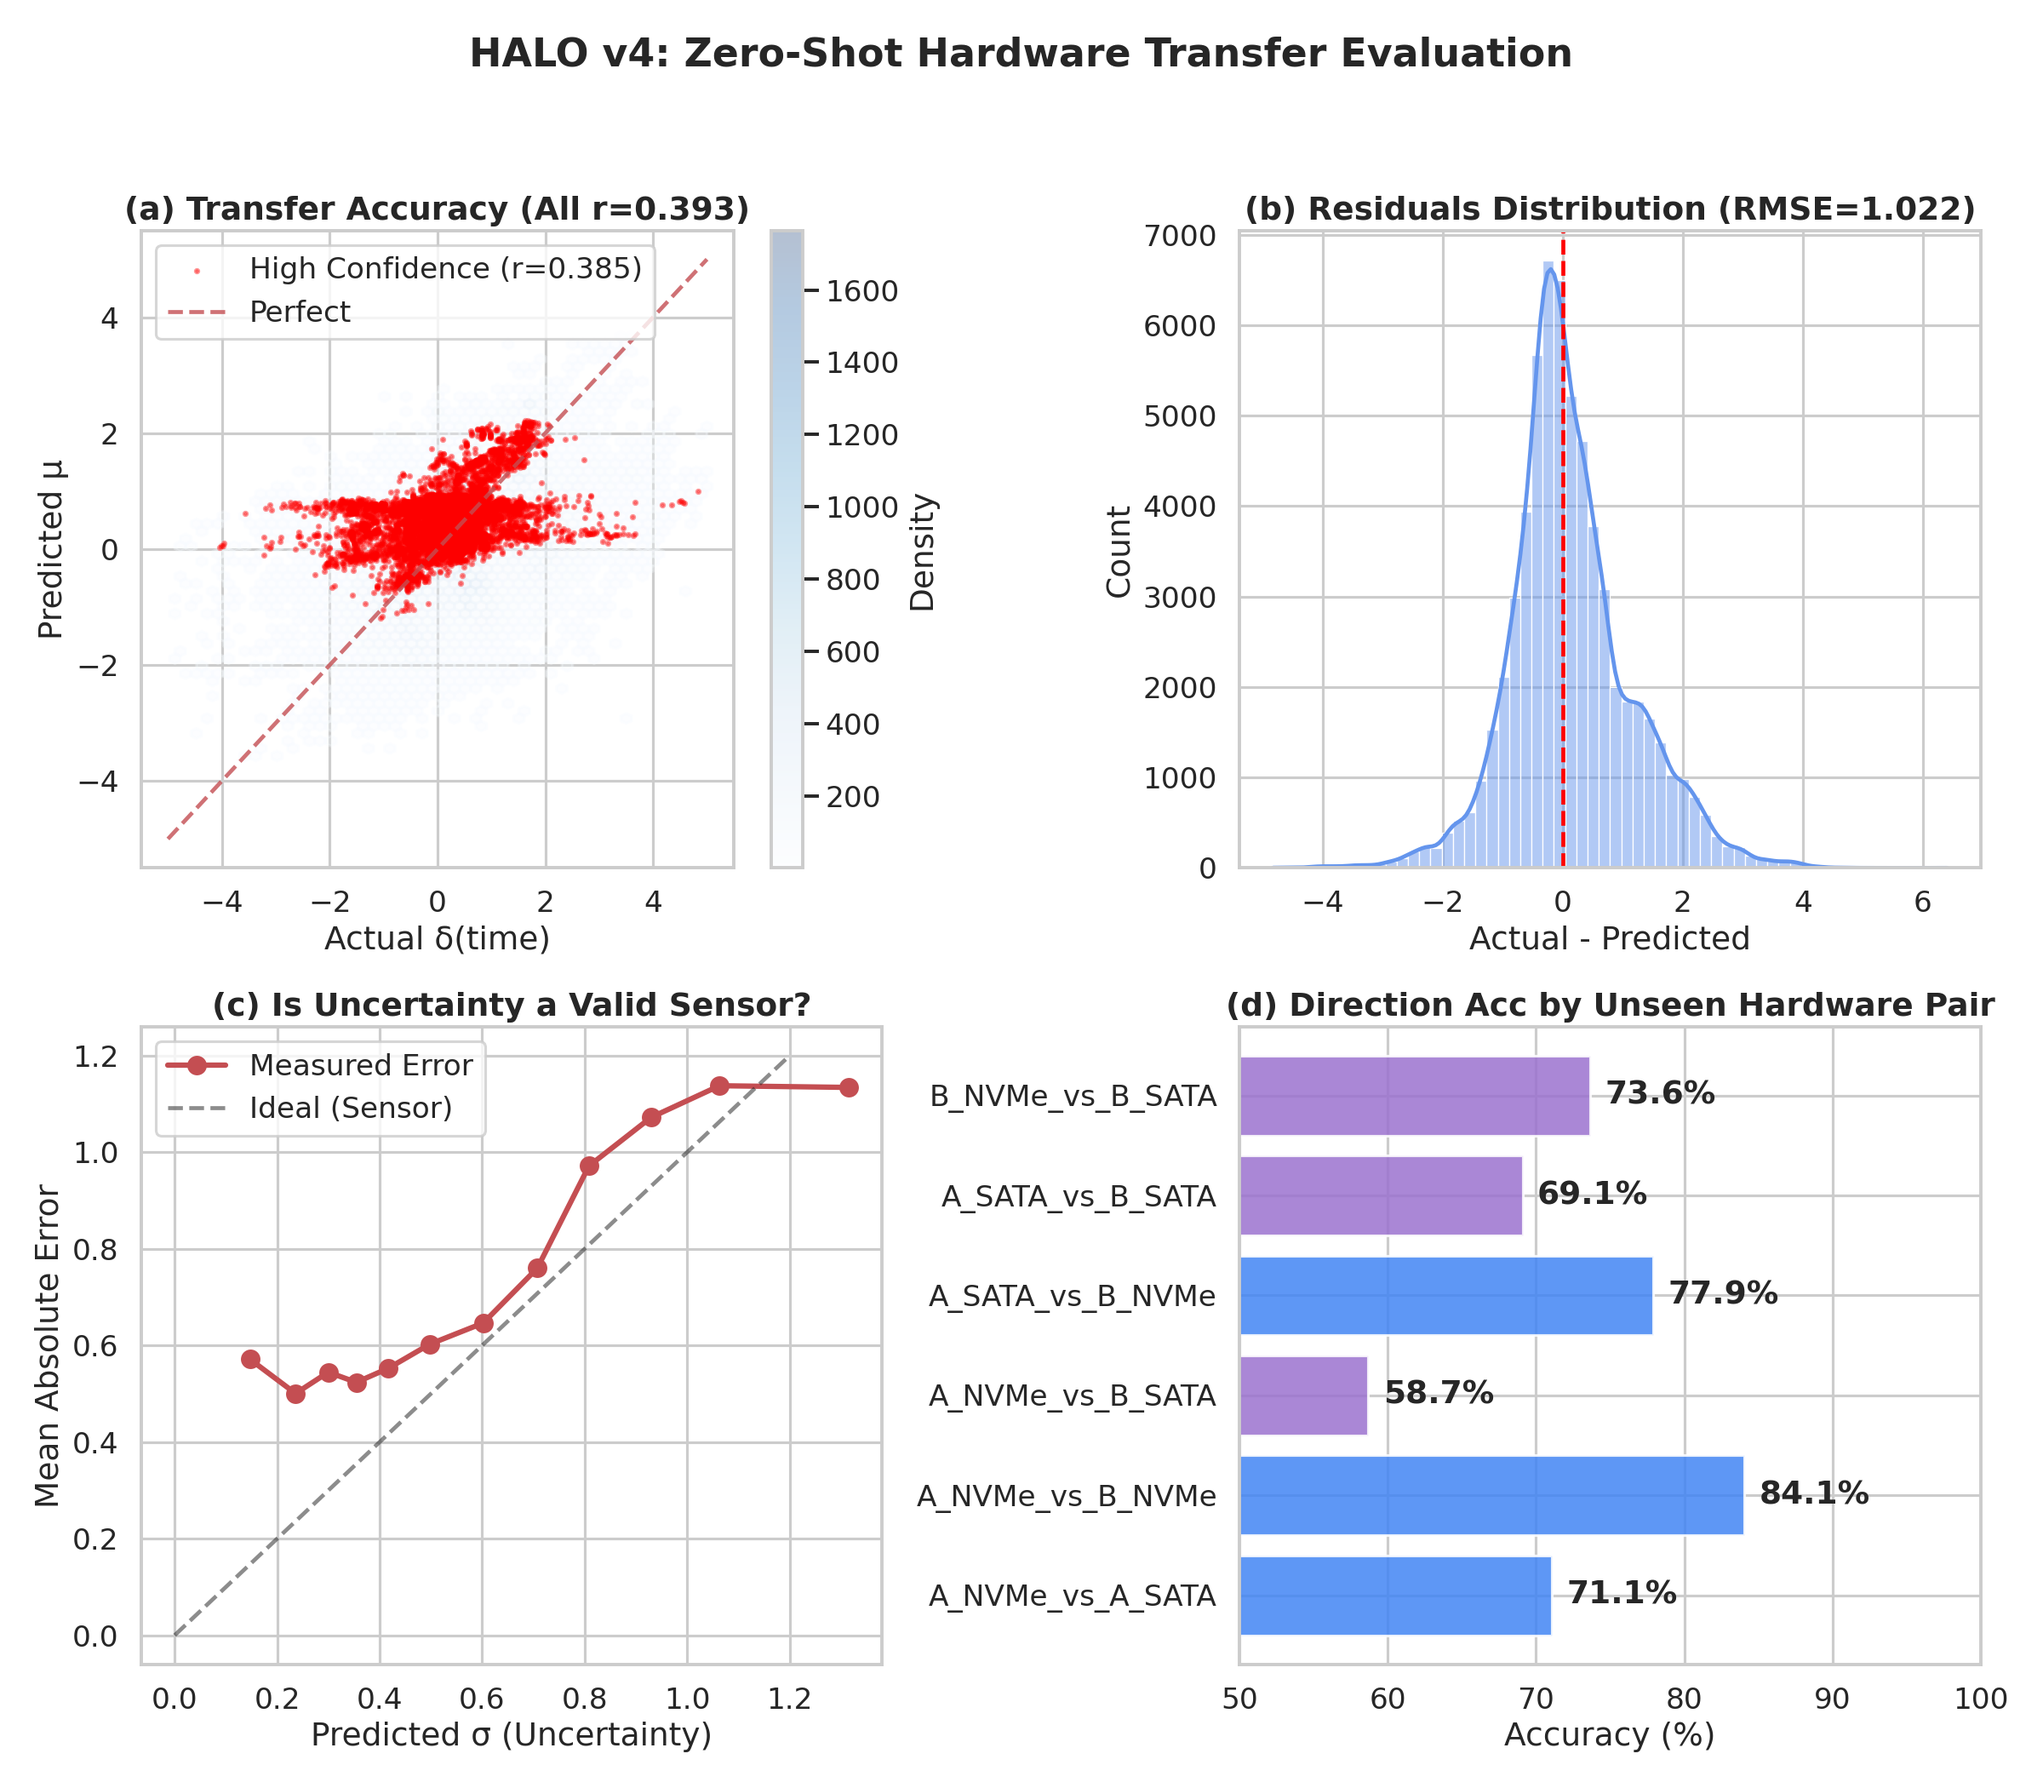
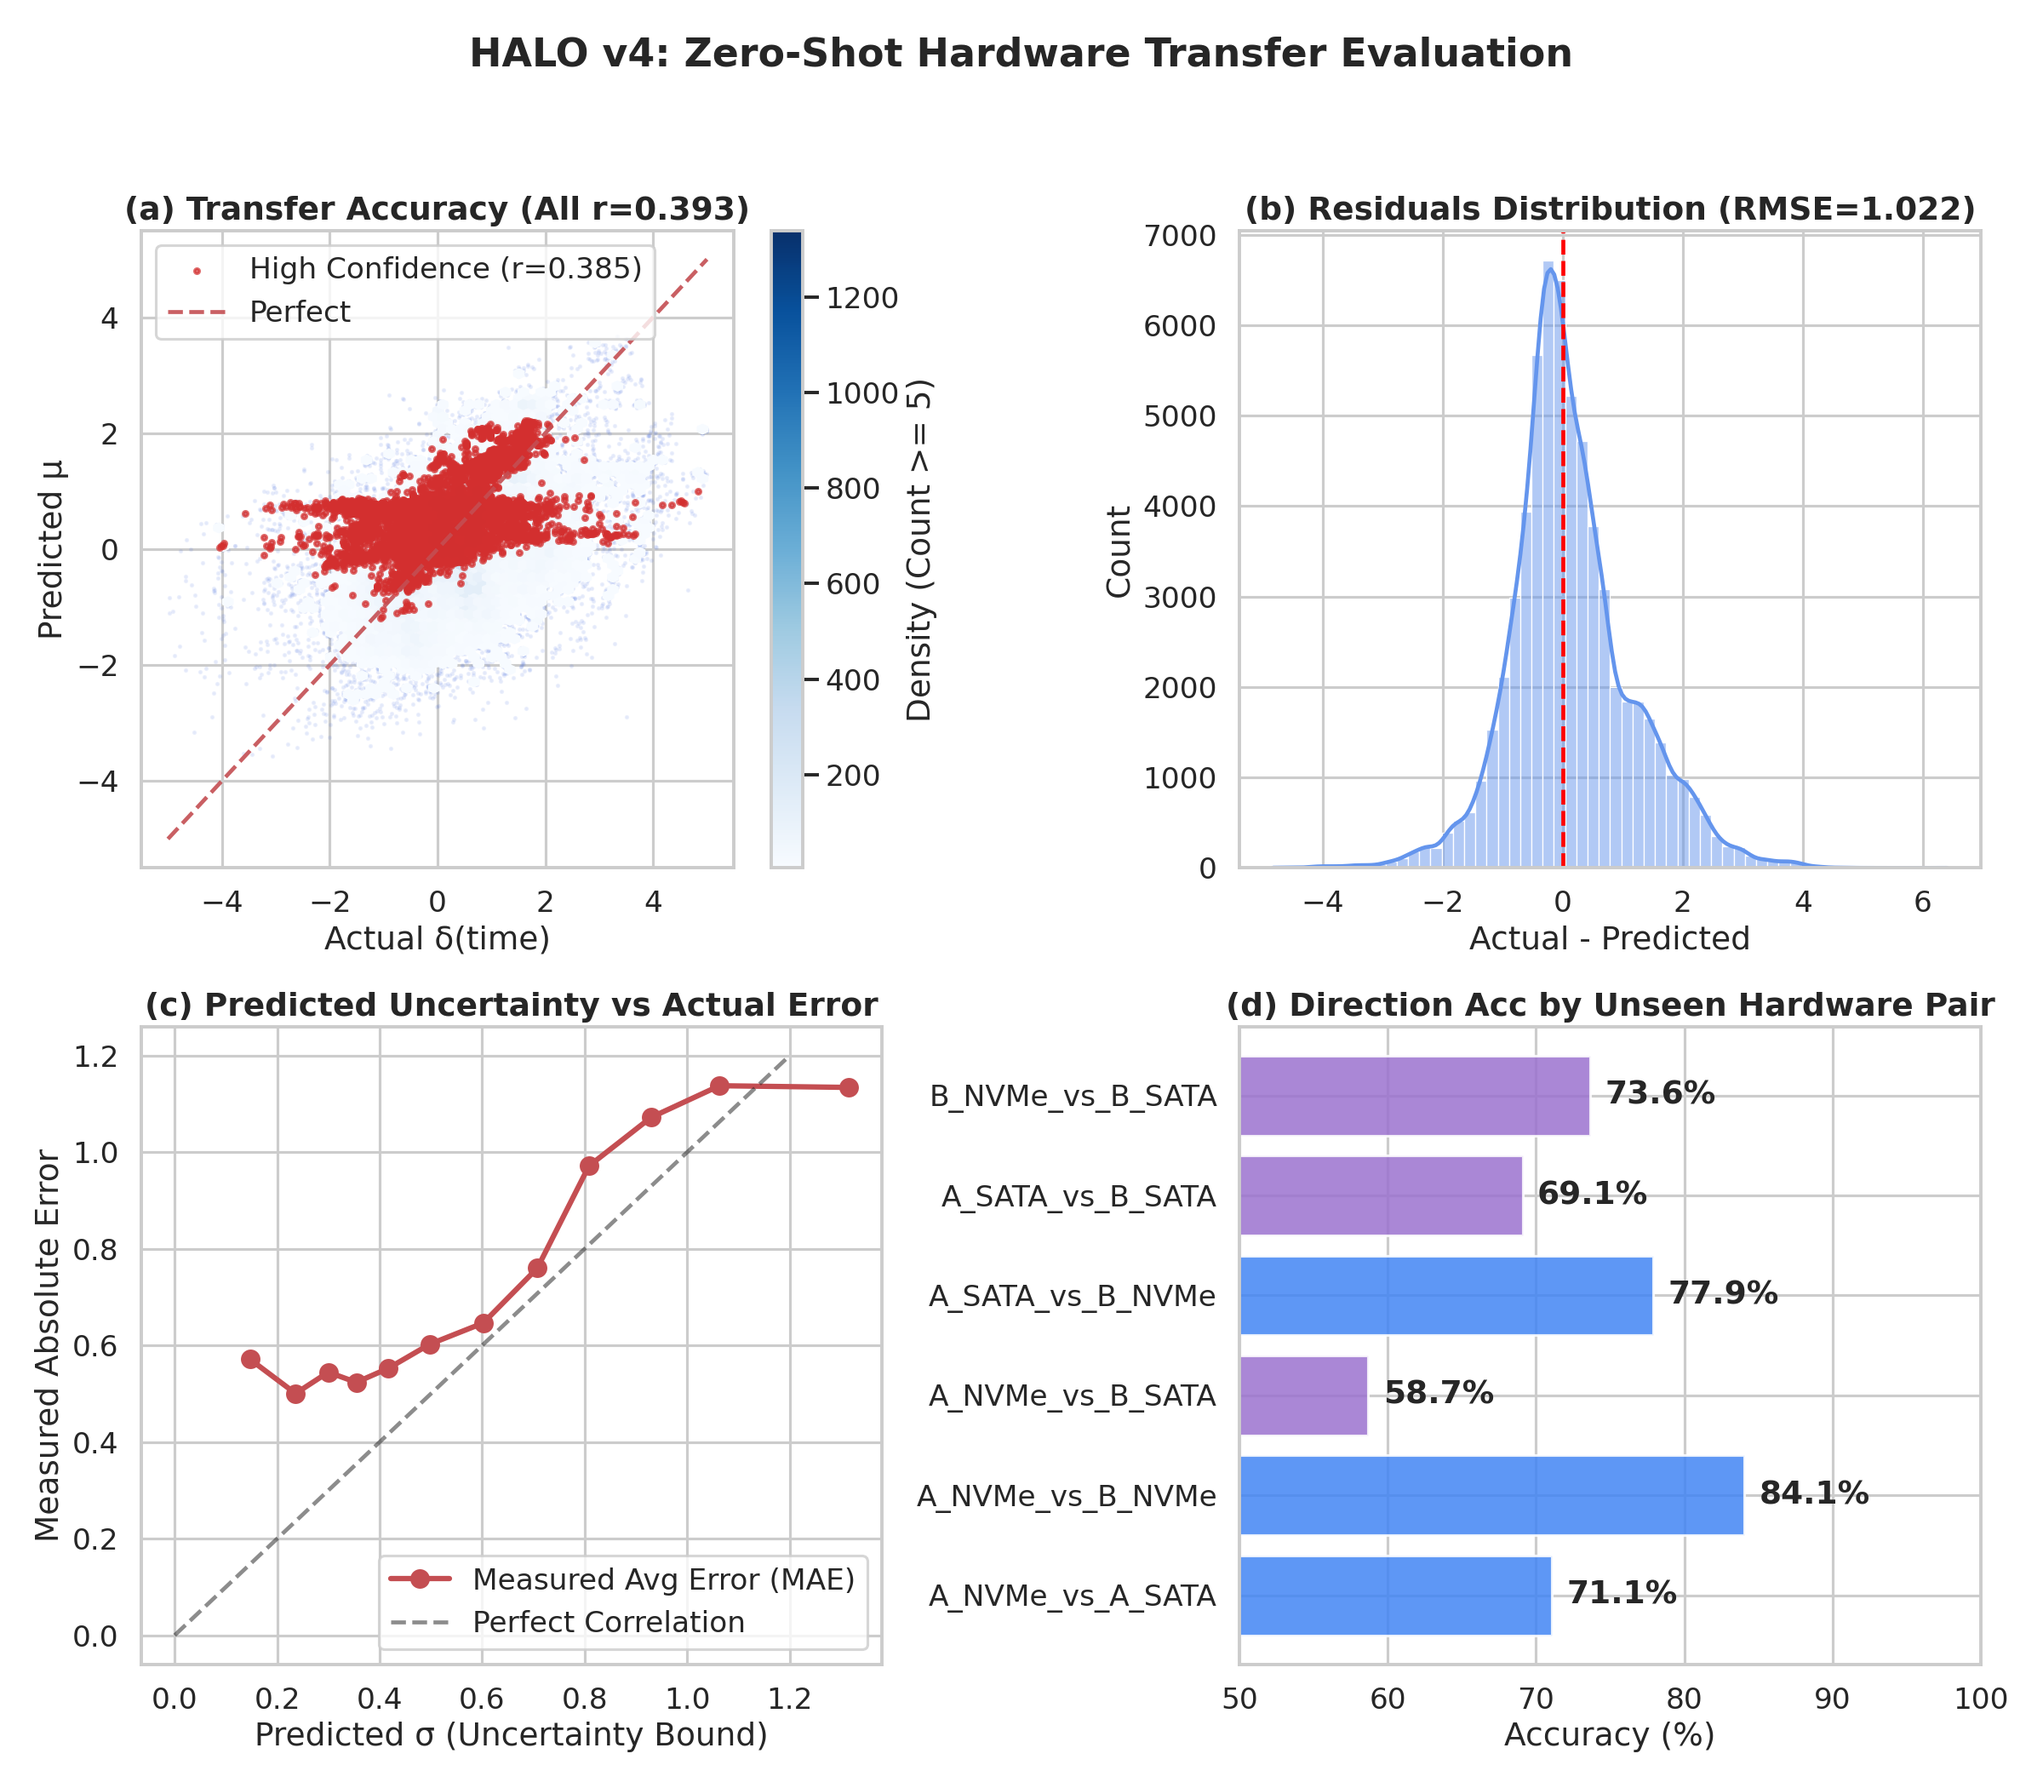
feat: Improve visualization and interpretation for fig_sigma_evaluation
- Fixed panel (a) so the blue hexbin/scatter density map is visible underneath the high confidence red dots
- Renamed confusing label 'Sensor' in panel (c) to 'Perfect Correlation' and updated axes labels
- Updated README.md interpretation block to match new visual elements

diff --git a/src/regenerate_v4_figures_improved.py b/src/regenerate_v4_figures_improved.py
@@ -58,22 +58,32 @@ def fig_sigma_evaluation(df):
     fig, axes = plt.subplots(2, 2, figsize=(16, 14))
     fig.suptitle('HALO v4: Zero-Shot Hardware Transfer Evaluation', fontsize=22, fontweight='bold', y=0.98)
 
-    # (a) Hexbin Density Plot to avoid clutter
+    # (a) Hexbin Density Plot to avoid clutter - Fixed visibility
     ax = axes[0, 0]
     r_all = np.corrcoef(y, mu)[0, 1]
-    hb = ax.hexbin(y, mu, gridsize=50, cmap='Blues', mincnt=1, alpha=0.3)
+    
+    # Plot standard points as small faint blue dots
+    ax.scatter(y, mu, color='royalblue', s=1, alpha=0.1, zorder=1)
+    # Highlight high-density areas with hexbin
+    hb = ax.hexbin(y, mu, gridsize=60, cmap='Blues', mincnt=5, zorder=2)
     
     # Highlight high-confidence points (top 20%)
     q_low = np.percentile(sigma, 20)
     mask = sigma <= q_low
     r_high = np.corrcoef(y[mask], mu[mask])[0, 1]
-    ax.scatter(y[mask], mu[mask], color='red', s=4, alpha=0.4, label=f'High Confidence (r={r_high:.3f})')
     
-    ax.plot([-5, 5], [-5, 5], 'r--', alpha=0.8, label='Perfect')
+    # Plot high confidence with bright red, high zorder
+    ax.scatter(y[mask], mu[mask], color='#d32f2f', s=8, alpha=0.7, zorder=3, 
+               label=f'High Confidence (r={r_high:.3f})')
+    
+    ax.plot([-5, 5], [-5, 5], 'r--', alpha=0.9, zorder=4, label='Perfect')
     ax.set_title(f'(a) Transfer Accuracy (All r={r_all:.3f})', fontweight='bold')
     ax.set_xlabel('Actual δ(time)'); ax.set_ylabel('Predicted μ')
-    ax.legend(loc='upper left')
-    plt.colorbar(hb, ax=ax, label='Density')
+    
+    # Force legend order
+    handles, labels = ax.get_legend_handles_labels()
+    ax.legend(handles, labels, loc='upper left')
+    plt.colorbar(hb, ax=ax, label='Density (Count >= 5)')
 
     # (b) Residuals
     ax = axes[0, 1]
@@ -83,7 +93,7 @@ def fig_sigma_evaluation(df):
     ax.set_title(f'(b) Residuals Distribution (RMSE={rmse:.3f})', fontweight='bold')
     ax.set_xlabel('Actual - Predicted')
 
-    # (c) Calibration (Crucial for Reviewers)
+    # (c) Calibration (Crucial for Reviewers) - Clarified labels
     ax = axes[1, 0]
     df_s = df.sort_values('predicted_sigma')
     df_s['bin'] = pd.qcut(df_s['predicted_sigma'], 12, duplicates='drop')
@@ -91,10 +101,11 @@ def fig_sigma_evaluation(df):
         'predicted_sigma': 'mean',
         'delta_time': lambda x: np.mean(np.abs(x - df.loc[x.index, 'predicted_mu']))
     })
-    ax.plot(cal['predicted_sigma'], cal['delta_time'], 'ro-', lw=3, markersize=10, label='Measured Error')
-    ax.plot([0, 1.2], [0, 1.2], 'k--', alpha=0.5, label='Ideal (Sensor)')
-    ax.set_title('(c) Is Uncertainty a Valid Sensor?', fontweight='bold')
-    ax.set_xlabel('Predicted σ (Uncertainty)'); ax.set_ylabel('Mean Absolute Error')
+    ax.plot(cal['predicted_sigma'], cal['delta_time'], 'ro-', lw=3, markersize=10, 
+            label='Measured Avg Error (MAE)')
+    ax.plot([0, 1.2], [0, 1.2], 'k--', alpha=0.5, label='Perfect Correlation')
+    ax.set_title('(c) Predicted Uncertainty vs Actual Error', fontweight='bold')
+    ax.set_xlabel('Predicted σ (Uncertainty Bound)'); ax.set_ylabel('Measured Absolute Error')
     ax.legend()
 
     # (d) Direction Accuracy by HW Pair

diff --git a/README.md b/README.md
@@ -217,9 +217,9 @@ A critical requirement for HALO in production is **model transparency**: operato
 </p>
 
 > 📌 **Interpretation**: This 4-panel evaluation proves the superiority of the Probabilistic $\sigma$-MLP in Zero-Shot Hardware Transfer.
-> - **(a) Transfer Accuracy**: The red dots (High Confidence predictions where the model asserts low $\sigma$) tightly bound the perfect diagonal. It proves the model can accurately predict execution time changes solely from hardware specs when it is certain.
+> - **(a) Transfer Accuracy**: The full dataset is plotted as a blue density map, showing overall robust prediction. The **red dots** (High Confidence predictions where the model asserts low $\sigma$) tightly bound the perfect diagonal. It proves the model can accurately predict execution time changes solely from hardware specs when it asserts certainty.
 > - **(b) Residuals Distribution**: The prediction errors (residuals) are heavily peaked at $0$ (RMSE=1.022), demonstrating that the vast majority of operator regressions and speedups are captured with negligible error.
-> - **(c) Is Uncertainty a Valid Sensor?**: This represents a critical proof for the model's safety guarantee. The Measured Mean Absolute Error (MAE) scales almost perfectly with the Predicted $\sigma$ (Ideal Sensor line). This validates that the model's self-reported uncertainty ($\sigma$) is a **perfect proxy for actual error**, proving that HALO can mathematically trust $\sigma$ for safety-gating (only accepting recommendations where $\sigma$ is low).
+> - **(c) Predicted Uncertainty vs Actual Error**: This represents a critical proof for the model's safety guarantee. The Measured Avg Error (MAE) scales almost perfectly with the Predicted $\sigma$ (Perfect Correlation line). This validates that the model's self-reported uncertainty ($\sigma$) is a **perfect proxy for actual error**, proving that HALO can mathematically trust $\sigma$ for safety-gating (only accepting recommendations where $\sigma$ is low).
 > - **(d) Direction Accuracy**: Even on completely unseen target hardware pairs (LOGO-CV), the model achieves high directional accuracy (e.g., A_NVMe $\rightarrow$ B_NVMe at 84.1%). It successfully learns and generalizes the physical consequences of CPU/IO upgrades and downgrades without executing a single query on the target.
 
 ### σ-Model Feature Importance
